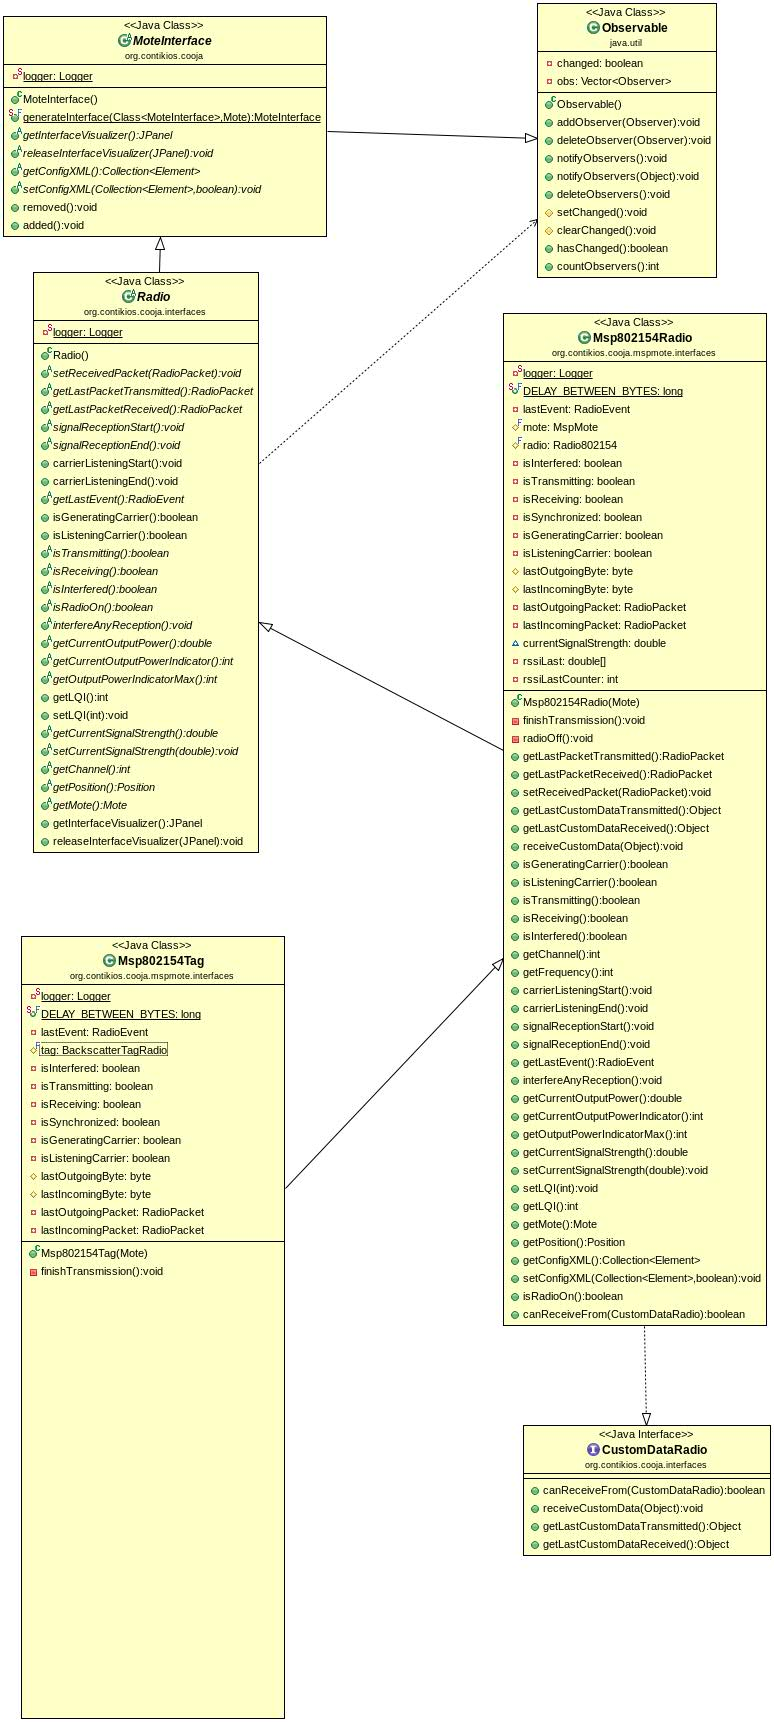
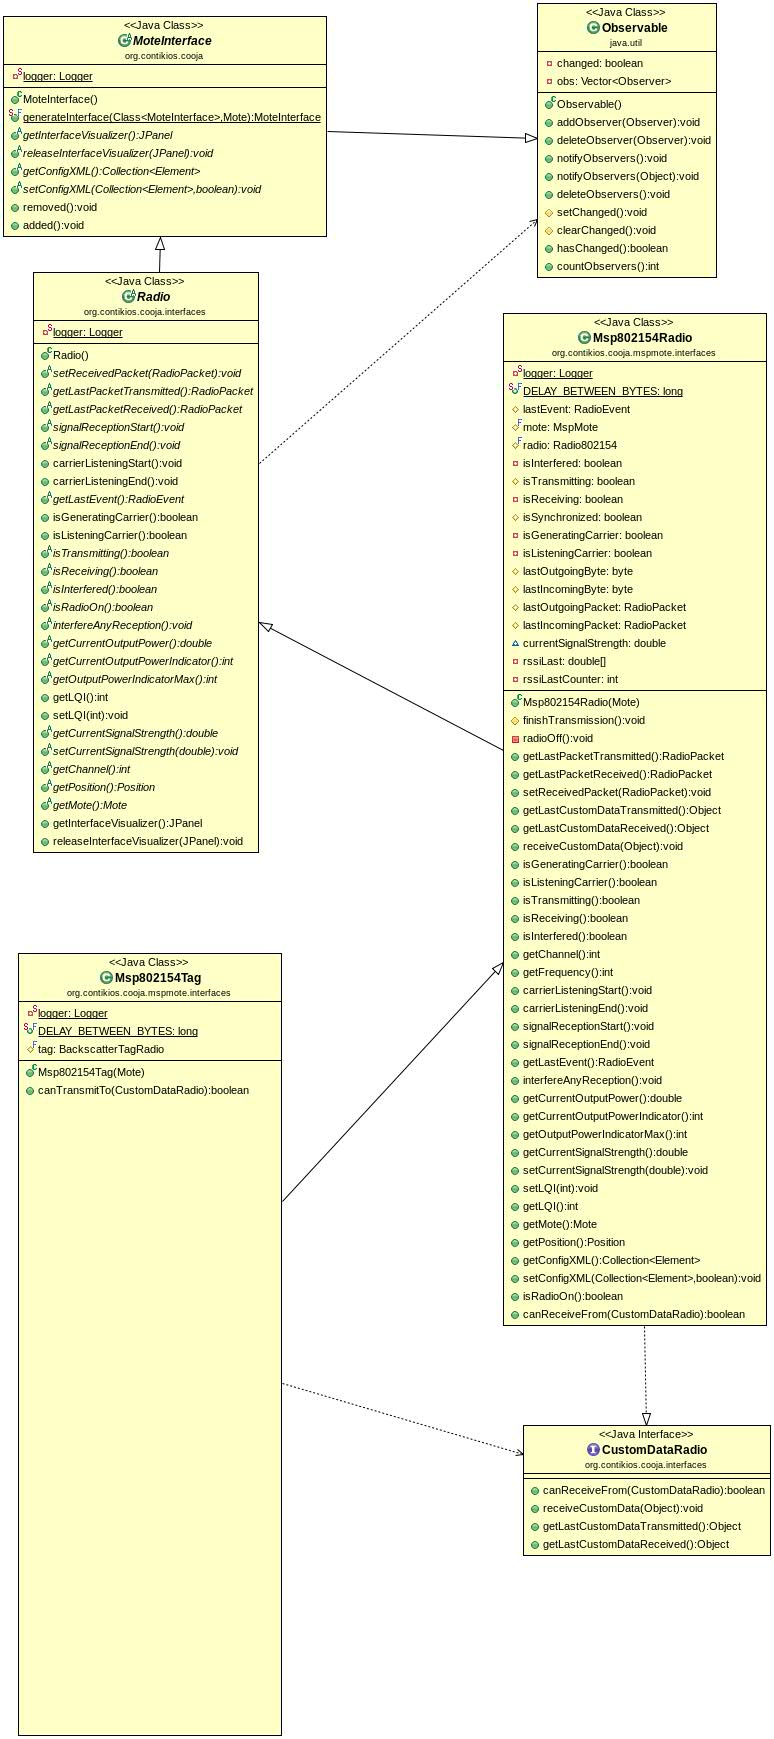
Added tx between the tag and recv

diff --git a/java/org/contikios/cooja/radiomediums/AbstractRadioMedium.java b/java/org/contikios/cooja/radiomediums/AbstractRadioMedium.java
@@ -285,8 +285,8 @@ public abstract class AbstractRadioMedium extends RadioMedium {
 /**/					System.out.println("Radio r : transmission_started.getAllDestinations");
 						
 						if (newConnection.getDestinationDelay(r) == 0) {
-							r.signalReceptionStart();
-/**/					System.out.println("r: " + r.getMote().getID() + " signalReceptionStart");
+/**/					    System.out.println("r: " + r.getMote().getID() + " signalReceptionStart");
+                            r.signalReceptionStart();
 							 
 						} else {
 /**/						System.out.println("EXPERIMENTAL_TRANSMISSION_STARTED");
@@ -294,8 +294,8 @@ public abstract class AbstractRadioMedium extends RadioMedium {
 							final Radio delayedRadio = r;
 							TimeEvent delayedEvent = new TimeEvent(0) {
 								public void execute(long t) {
-									delayedRadio.signalReceptionStart();
 /**/								System.out.println("delayedRadio: " + delayedRadio.getMote().getID() + " signalReceptionStart");
+                                    delayedRadio.signalReceptionStart();
 								}
 							};
 							simulation.scheduleEvent(delayedEvent, simulation.getSimulationTime() + newConnection.getDestinationDelay(r));
@@ -328,16 +328,16 @@ public abstract class AbstractRadioMedium extends RadioMedium {
 /**/     				System.out.println("Radio dstRadio : transmission_finished.getAllDestinations");
 						
 						if (connection.getDestinationDelay(dstRadio) == 0) {
-							dstRadio.signalReceptionEnd();
-/**/						System.out.println("dstRadio: " + dstRadio.getMote().getID() + " signalReceptionEnd");							
+/**/						System.out.println("dstRadio: " + dstRadio.getMote().getID() + " signalReceptionEnd");
+                            dstRadio.signalReceptionEnd();
 						} else {
 /**/						System.out.println("EXPERIMENTAL_TRANSMISSION_FINISHED");
 							/* EXPERIMENTAL: Simulating propagation delay */
 							final Radio delayedRadio = dstRadio;
 							TimeEvent delayedEvent = new TimeEvent(0) {
 								public void execute(long t) {
-									delayedRadio.signalReceptionEnd();
-/**/								System.out.println("delayedRadio: " + delayedRadio.getMote().getID() + " signalReceptionEnd");									
+/**/								System.out.println("delayedRadio: " + delayedRadio.getMote().getID() + " signalReceptionEnd");
+                                    delayedRadio.signalReceptionEnd();
 								}
 							};
 							simulation.scheduleEvent(delayedEvent,
@@ -349,8 +349,8 @@ public abstract class AbstractRadioMedium extends RadioMedium {
 					for (Radio intRadio : connection.getInterferedNonDestinations()) {
 
 					  if (intRadio.isInterfered()) {
-					    intRadio.signalReceptionEnd();
 /**/				    System.out.println("intfRadio: " + intRadio.getMote().getID() + " signalReceptionEnd");
+                        intRadio.signalReceptionEnd();
 					  }
 					}
 					
@@ -364,7 +364,7 @@ public abstract class AbstractRadioMedium extends RadioMedium {
 				}
 				break;
 				case CUSTOM_DATA_TRANSMITTED: {
-					
+/**/                System.out.println("radio= " + radio.getMote().getID() + " - CUSTOM_DATA_TRANSMITTED");		
 					/* Connection */
 					RadioConnection connection = getActiveConnectionFrom(radio);
 					if (connection == null) {
@@ -380,12 +380,19 @@ public abstract class AbstractRadioMedium extends RadioMedium {
 					}
 					
 					for (Radio dstRadio : connection.getAllDestinations()) {
+/**///                    System.out.println("dstRadio instanceof CustomDataRadio: " + (dstRadio instanceof CustomDataRadio));
+/**///                    System.out.println("dstRadio.canReceiveFrom(radio): " + (((CustomDataRadio) dstRadio).canReceiveFrom((CustomDataRadio)radio)) );
+/**///                    System.out.println("dstRadio.getClass(): " + ((CustomDataRadio)dstRadio).getClass());
+/**///                    System.out.println("radio.getClass(): " + ((CustomDataRadio)radio).getClass());
+
 						if (!(dstRadio instanceof CustomDataRadio) || 
 						    !((CustomDataRadio) dstRadio).canReceiveFrom((CustomDataRadio)radio)) {
 							/* Radios communicate via radio packets */
+/**/     				    System.out.println("Radios communicate via radio packets");
 							continue;
 						}
-						
+
+						 
 						if (connection.getDestinationDelay(dstRadio) == 0) {
 /**/                        System.out.println("(CustomDataRadio)dstRadio: " + dstRadio.getMote().getID() + " receiveCustomData");
 							((CustomDataRadio) dstRadio).receiveCustomData(data);
@@ -396,6 +403,7 @@ public abstract class AbstractRadioMedium extends RadioMedium {
 							final Object delayedData = data;
 							TimeEvent delayedEvent = new TimeEvent(0) {
 								public void execute(long t) {
+/**/                                System.out.println("(CustomDataRadio)delayedRadio: " + ((Radio)delayedRadio).getMote().getID() + " receiveCustomData");								    
 									delayedRadio.receiveCustomData(delayedData);
 								}
 							};
@@ -408,6 +416,7 @@ public abstract class AbstractRadioMedium extends RadioMedium {
 				}
 				break;
 				case PACKET_TRANSMITTED: {
+/**/                System.out.println("radio= " + radio.getMote().getID() + " - PACKET_TRANSMITTED");				    
 					/* Connection */
 					RadioConnection connection = getActiveConnectionFrom(radio);
 					if (connection == null) {
@@ -428,6 +437,7 @@ public abstract class AbstractRadioMedium extends RadioMedium {
 					      (dstRadio instanceof CustomDataRadio) && 
 					      ((CustomDataRadio) dstRadio).canReceiveFrom((CustomDataRadio)radio)) {
 					    /* Radios instead communicate via custom data objects */
+/**/                    System.out.println("Radios instead communicate via custom data objects");                  
 					    continue;
 					  }
 
@@ -435,6 +445,7 @@ public abstract class AbstractRadioMedium extends RadioMedium {
 						/* Forward radio packet */
 						if (connection.getDestinationDelay(dstRadio) == 0) {
 							dstRadio.setReceivedPacket(packet);
+/**/                        System.out.println("dstRadio: " + dstRadio.getMote().getID() + " setReceivedPacket");
 						} else {
 /**/						System.out.println("EXPERIMENTAL_PACKET_TRANSMITTED");
 							/* EXPERIMENTAL: Simulating propagation delay */
@@ -443,6 +454,7 @@ public abstract class AbstractRadioMedium extends RadioMedium {
 							TimeEvent delayedEvent = new TimeEvent(0) {
 								public void execute(long t) {
 									delayedRadio.setReceivedPacket(delayedPacket);
+/**/                                System.out.println("delayedRadio: " + delayedRadio.getMote().getID() + " setReceivedPacket");
 								}
 							};
 							simulation.scheduleEvent(delayedEvent,

diff --git a/apps/mspsim/src/org/contikios/cooja/mspmote/interfaces/Msp802154Tag.java b/apps/mspsim/src/org/contikios/cooja/mspmote/interfaces/Msp802154Tag.java
@@ -30,32 +30,13 @@
 
 package org.contikios.cooja.mspmote.interfaces;
 
-import java.util.Collection;
 
 import org.apache.log4j.Logger;
-import org.jdom.Element;
 
 import org.contikios.cooja.ClassDescription;
 import org.contikios.cooja.Mote;
-import org.contikios.cooja.RadioPacket;
-import org.contikios.cooja.Simulation;
-import org.contikios.cooja.interfaces.CustomDataRadio;
-import org.contikios.cooja.interfaces.Position;
-import org.contikios.cooja.interfaces.Radio;
-import org.contikios.cooja.interfaces.Radio.RadioEvent;
-import org.contikios.cooja.mspmote.MspMote;
-import org.contikios.cooja.mspmote.MspMoteTimeEvent;
-
-import org.contikios.cooja.mspmote.BackscatterTag;
-import se.sics.mspsim.chip.TagModule;
 import se.sics.mspsim.chip.BackscatterTagRadio; 
-
-import se.sics.mspsim.chip.CC2420;
-import se.sics.mspsim.chip.ChannelListener;
 import se.sics.mspsim.chip.RFListener;
-import se.sics.mspsim.chip.Radio802154;
-import se.sics.mspsim.core.Chip;
-import se.sics.mspsim.core.OperatingModeListener;
 
 /**
  * MSPSim 802.15.4 radio to COOJA wrapper.
@@ -66,43 +47,16 @@ import se.sics.mspsim.core.OperatingModeListener;
 public class Msp802154Tag extends Msp802154Radio {
   private static Logger logger = Logger.getLogger(Msp802154Tag.class);
 
-  /**
-   * Cross-level:
-   * Inter-byte delay for delivering cross-level packet bytes.
-   */
-  public static final long DELAY_BETWEEN_BYTES =
-    (long) (1000.0*Simulation.MILLISECOND/(250000.0/8.0)); /* us. Corresponds to 250kbit/s */
-
-  private RadioEvent lastEvent = RadioEvent.UNKNOWN;
-
-  //protected final MspMote mote;
-  //protected final Radio802154 radio;
   protected final BackscatterTagRadio tag;
-  
-  private boolean isInterfered = false;
-  private boolean isTransmitting = false;
-  private boolean isReceiving = false;
-  private boolean isSynchronized = false;
-  private boolean isGeneratingCarrier = false;
-  private boolean isListeningCarrier = false;
-  
-  protected byte lastOutgoingByte;
-  protected byte lastIncomingByte;
-
-  private RadioPacket lastOutgoingPacket = null;
-  private RadioPacket lastIncomingPacket = null;
 
   public Msp802154Tag(Mote m) {
     super(m);
 /**/System.out.println("Msp802154Tag");
-    //this.mote = (MspMote)m;
-    //this.radio = this.mote.getCPU().getChip(Radio802154.class);
     this.tag = this.mote.getCPU().getChip(BackscatterTagRadio.class);
             
-//    if (tag == null) {
-//        throw new IllegalStateException("Mote is not equipped with a tag");
-//    }
-//    
+    if (tag == null) {
+        throw new IllegalStateException("Mote is not equipped with a tag");
+    }
     
     tag.addRFListener(new RFListener() {
       int len = 0;
@@ -167,72 +121,5 @@ public class Msp802154Tag extends Msp802154Radio {
       }
     }); /* addRFListener */
     
-//    radio.addOperatingModeListener(new OperatingModeListener() {
-//      public void modeChanged(Chip source, int mode) {
-///**/    System.out.println("mote: " + mote.getID() + "- mode= "  + mode);
-//        if (mode == CC2420.MODE_TEST_CARRIER_ON) {
-///**/        System.out.println("mote: " + mote.getID() + "- MODE_TEST_CARRIER_ON");
-//            lastEvent = RadioEvent.HW_ON;
-//            setChanged();
-//            notifyObservers();
-//            lastEvent = RadioEvent.CARRIER_STARTED;
-//            isGeneratingCarrier = true;
-///**/        System.out.println("mote: " + mote.getID() +  "- isGeneratingCarrier= " + isGeneratingCarrier);
-//            setChanged();
-//            notifyObservers();
-//            return;
-//        }
-//        
-//        if ((mode == CC2420.MODE_POWER_OFF) || (mode == CC2420.MODE_TXRX_OFF)) {
-//            if (isGeneratingCarrier) {
-///**/            System.out.println("mote: " + mote.getID() + " - MODE_TEST_CARRIER_OFF");
-//                lastEvent = RadioEvent.CARRIER_STOPPED;
-//                isGeneratingCarrier = false;
-///**/            System.out.println("mote: " + mote.getID() + " - isGeneratingCarrier=" + isGeneratingCarrier);
-//                setChanged();
-//                notifyObservers();
-//                //return;
-///**/            System.out.println("mote: " + mote.getID() + " - 1.radioOff");
-//                radioOff(); // actually it is a state change, not necessarily to OFF
-//                return;
-//            }
-//        }
-//        
-///**/    System.out.println("mote: " + mote.getID() + " - addOperatingModeListener");
-//        if (radio.isReadyToReceive()) {
-///**/      System.out.println("mote: " + mote.getID() + " - isReadyToReceive");          
-//          lastEvent = RadioEvent.HW_ON;
-//          setChanged();
-//          notifyObservers();
-//        } else {
-///**/      System.out.println("mote: " + mote.getID() + " - 2.radioOff");
-//          radioOff(); // actually it is a state change, not necessarily to OFF
-//        }
-//      }
-//    });
-
-//    radio.addChannelListener(new ChannelListener() {
-//      public void channelChanged(int channel) {
-///**/    System.out.println("mote: " + mote.getID() + " - addChannelListener");
-//        /* XXX Currently assumes zero channel switch time */
-//        lastEvent = RadioEvent.UNKNOWN;
-//        setChanged();
-//        notifyObservers();
-//      }
-//    });
-  }
-
-
-  private void finishTransmission() {
-    if (isTransmitting()) {
-/**/   System.out.println("mote: " + mote.getID() + " - isTransmitting");
-      //logger.debug("----- 802.15.4 TRANSMISSION FINISHED -----");
-      isTransmitting = false;
-      isSynchronized = false;
-/**/  System.out.println("mote: " + mote.getID() + " - Within finishedTransmission");
-      lastEvent = RadioEvent.TRANSMISSION_FINISHED;
-      setChanged();
-      notifyObservers();
-    }
   }
 }

diff --git a/apps/mspsim/src/org/contikios/cooja/mspmote/interfaces/Msp802154Radio.java b/apps/mspsim/src/org/contikios/cooja/mspmote/interfaces/Msp802154Radio.java
@@ -69,23 +69,23 @@ public class Msp802154Radio extends Radio implements CustomDataRadio {
   public static final long DELAY_BETWEEN_BYTES =
     (long) (1000.0*Simulation.MILLISECOND/(250000.0/8.0)); /* us. Corresponds to 250kbit/s */
 
-  private RadioEvent lastEvent = RadioEvent.UNKNOWN;
+  protected RadioEvent lastEvent = RadioEvent.UNKNOWN;
 
   protected final MspMote mote;
   protected final Radio802154 radio;
   
   private boolean isInterfered = false;
-  private boolean isTransmitting = false;
+/**/  protected boolean isTransmitting = false;
   private boolean isReceiving = false;
-  private boolean isSynchronized = false;
+/**/  protected boolean isSynchronized = false;
   private boolean isGeneratingCarrier = false;
   private boolean isListeningCarrier = false;
   
   protected byte lastOutgoingByte;
   protected byte lastIncomingByte;
 
-  private RadioPacket lastOutgoingPacket = null;
-  private RadioPacket lastIncomingPacket = null;
+/**/  protected RadioPacket lastOutgoingPacket = null;
+/**/  protected RadioPacket lastIncomingPacket = null;
 
   public Msp802154Radio(Mote m) { 
 /**/System.out.println("Msp802154Radio");
@@ -215,7 +215,7 @@ public class Msp802154Radio extends Radio implements CustomDataRadio {
   }
 
 
-  private void finishTransmission()
+  protected void finishTransmission()
   {
     if (isTransmitting()) {
 /**/   System.out.println("mote: " + mote.getID() + " - isTransmitting");
@@ -508,9 +508,12 @@ public class Msp802154Radio extends Radio implements CustomDataRadio {
   }
   
   public boolean canReceiveFrom(CustomDataRadio radio) {
-    if (radio.getClass().equals(this.getClass())) {
+/**///System.out.println("radio.getClass(): " + radio.getClass());
+/**///System.out.println("this.getClass(): " + this.getClass());
+    if ( this.getClass().isAssignableFrom(radio.getClass())) {
       return true;
     }
     return false;
   }
+  
 }

diff --git a/apps/mspsim/src/org/contikios/cooja/mspmote/BackscatterTagType.java b/apps/mspsim/src/org/contikios/cooja/mspmote/BackscatterTagType.java
@@ -31,14 +31,8 @@
 package org.contikios.cooja.mspmote;
 
 import java.awt.Container;
-import java.awt.Image;
-import java.awt.MediaTracker;
-import java.awt.Toolkit;
 import java.io.File;
-import java.net.URL;
 
-import javax.swing.Icon;
-import javax.swing.ImageIcon;
 import javax.swing.JOptionPane;
 
 import org.apache.log4j.Logger;
@@ -59,7 +53,6 @@ import org.contikios.cooja.interfaces.Mote2MoteRelations;
 import org.contikios.cooja.interfaces.MoteAttributes;
 import org.contikios.cooja.interfaces.Position;
 import org.contikios.cooja.interfaces.RimeAddress;
-import org.contikios.cooja.mspmote.interfaces.Msp802154Radio;
 
 import org.contikios.cooja.mspmote.interfaces.Msp802154Tag;
 
@@ -72,10 +65,6 @@ import org.contikios.cooja.mspmote.interfaces.SkyCoffeeFilesystem;
 import org.contikios.cooja.mspmote.interfaces.SkyFlash;
 import org.contikios.cooja.mspmote.interfaces.SkyLED;
 import org.contikios.cooja.mspmote.interfaces.TagLED;
-
-import se.sics.mspsim.chip.TagModule;
-import se.sics.mspsim.chip.BackscatterTagRadio;
-
 import org.contikios.cooja.mspmote.interfaces.SkyTemperature;
 
 @ClassDescription("Backscatter Tag")
@@ -84,6 +73,7 @@ public class BackscatterTagType extends SkyMoteType {
   private static Logger logger = Logger.getLogger(BackscatterTagType.class);
 
   protected MspMote createMote(Simulation simulation) {
+/**/System.out.println("BackscatterTagType - createMote");      
     return new BackscatterTag(this, simulation);
   }
 
